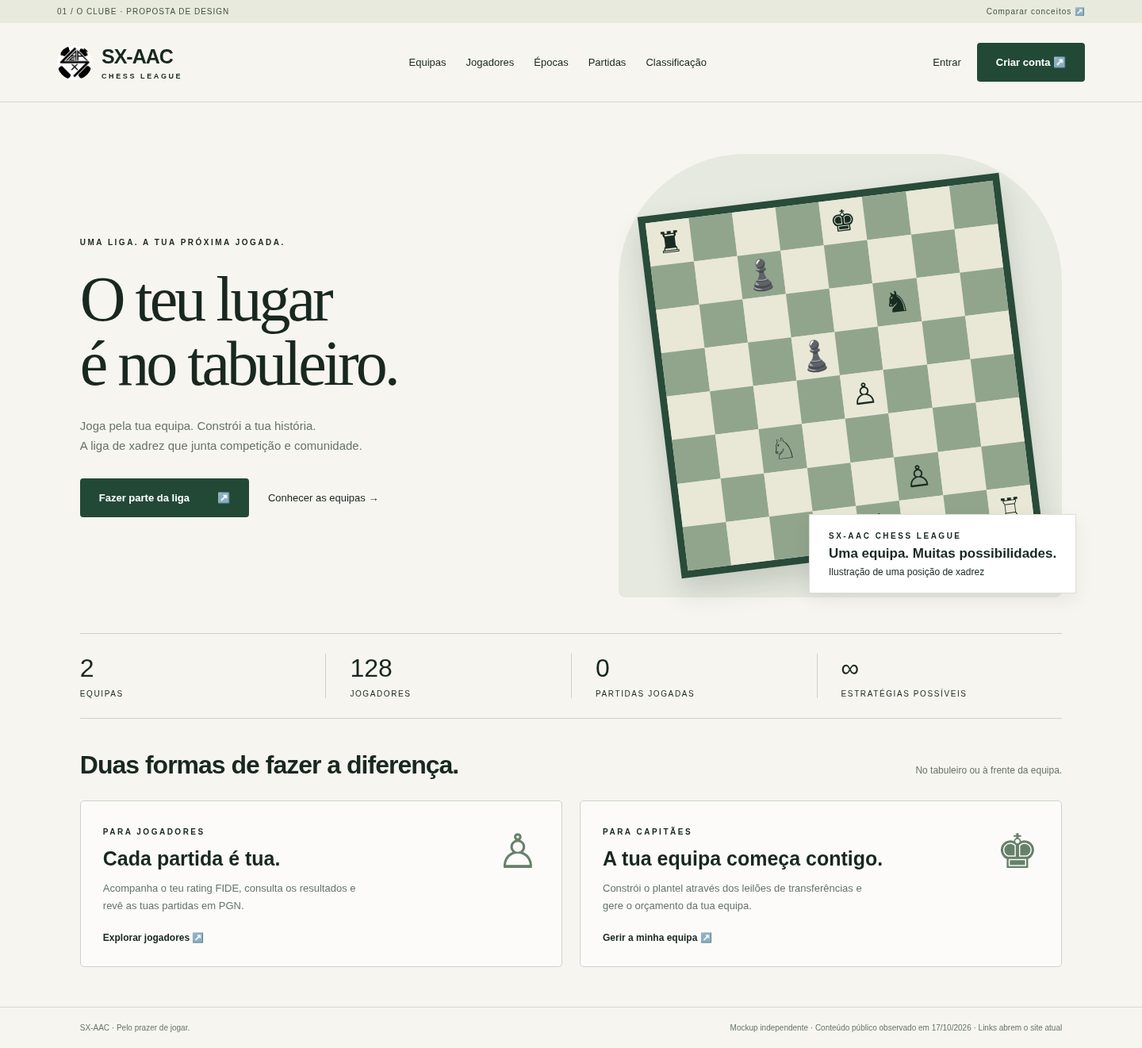
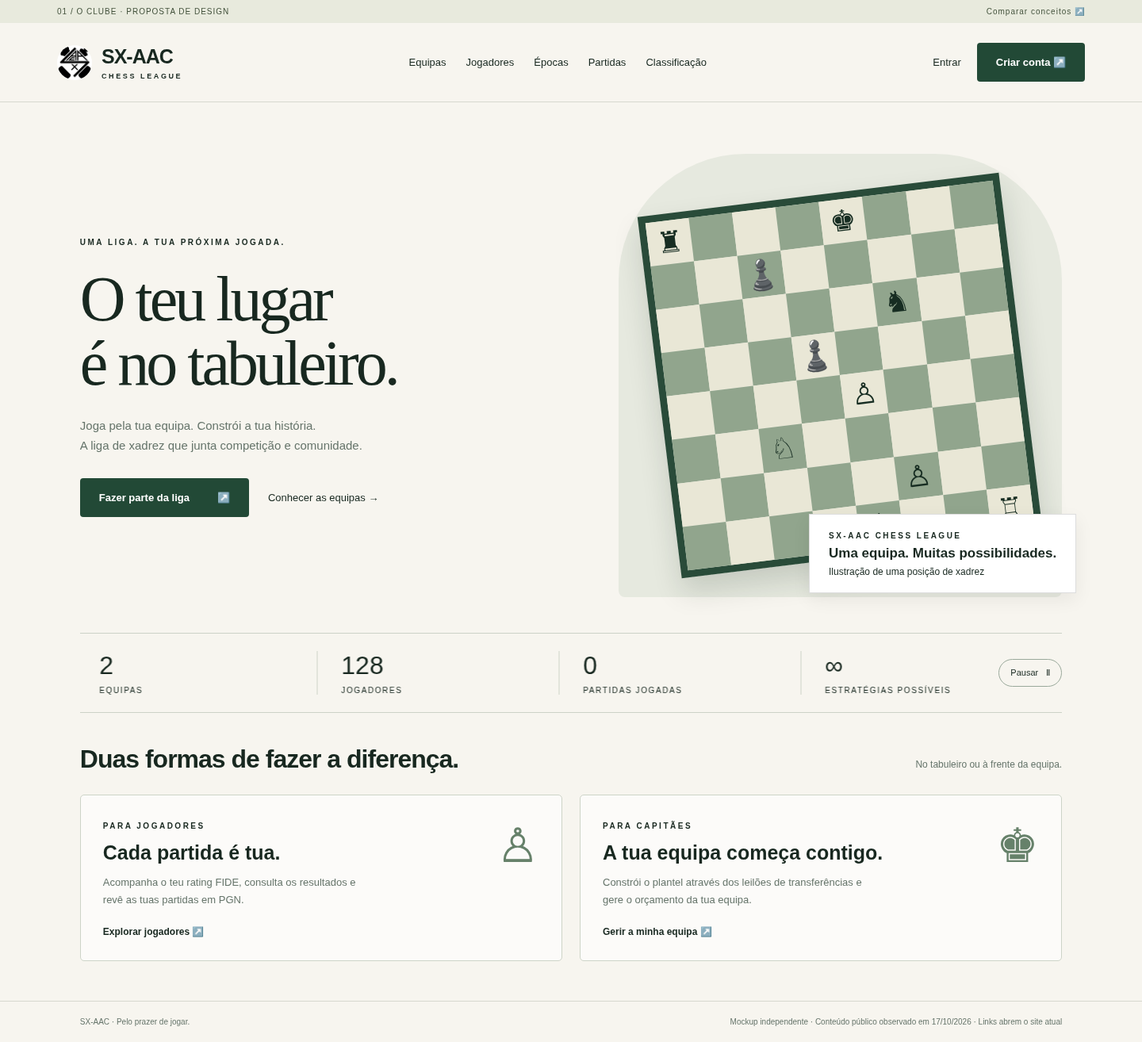
Animate league statistics as a horizontal ticker

diff --git a/concept-02.html b/concept-02.html
@@ -1,1 +1,1 @@
-<!doctype html><html lang="pt-PT"><head><meta charset="utf-8"><meta name="viewport" content="width=device-width,initial-scale=1"><title>Conceito 02 — A Competição · SX-AAC</title><link rel="stylesheet" href="style.css"></head><body class="dark"><div class="preview-label">02 / A COMPETIÇÃO · PROPOSTA DE DESIGN <a style="float:right" href="index.html">Comparar conceitos ↗</a></div><header><a class="brand" href="index.html"><img src="assets/logo.png" alt="SX-AAC"><span>SX-AAC<small>CHESS LEAGUE</small></span></a><nav><a href="https://liga.sx-aac.com/teams">Equipas</a><a href="https://liga.sx-aac.com/players">Jogadores</a><a href="https://liga.sx-aac.com/seasons">Épocas</a><a href="https://liga.sx-aac.com/games">Partidas</a><a href="https://liga.sx-aac.com/standings">Classificação</a></nav><div class="actions"><a href="https://liga.sx-aac.com/login">Entrar</a><a class="btn" href="https://liga.sx-aac.com/register">Criar conta ↗</a></div></header><main><section class="intro"><div><span class="eyebrow muted">SX-AAC / CHESS LEAGUE</span><h1>A próxima jogada é tua.</h1></div><p>Uma liga. Todas as tuas partidas.<br>O ponto de encontro de jogadores e capitães.</p></section><section class="portal"><div class="portal-copy"><div class="tabs" role="tablist" aria-label="Escolher perfil"><button id="player-tab" role="tab" aria-selected="true" aria-controls="role-panel">Sou jogador</button><button id="captain-tab" role="tab" aria-selected="false" aria-controls="role-panel">Sou capitão</button></div><div id="role-panel" role="tabpanel" aria-labelledby="player-tab"><span class="eyebrow muted" id="role-label">O TEU PERCURSO, PARTIDA A PARTIDA</span><h2 id="role-title">Joga. Compete.<br>Deixa a tua marca.</h2><p id="role-desc">Representa a tua equipa e acompanha a tua evolução ao longo da liga.</p><div class="check" id="benefit-one">Resultados e partidas gravadas em PGN</div><div class="check" id="benefit-two">Rating FIDE e histórico de equipas</div><a class="btn" href="https://liga.sx-aac.com/login" id="role-cta">Entrar na minha conta ↗</a></div></div><div class="board-wrap"><div class="board"><span class="sq ">♜</span><span class="sq shade"></span><span class="sq "></span><span class="sq shade"></span><span class="sq ">♚</span><span class="sq shade"></span><span class="sq "></span><span class="sq shade"></span><span class="sq shade"></span><span class="sq "></span><span class="sq shade">♟</span><span class="sq "></span><span class="sq shade"></span><span class="sq "></span><span class="sq shade"></span><span class="sq "></span><span class="sq "></span><span class="sq shade"></span><span class="sq "></span><span class="sq shade"></span><span class="sq "></span><span class="sq shade">♞</span><span class="sq "></span><span class="sq shade"></span><span class="sq shade"></span><span class="sq "></span><span class="sq shade"></span><span class="sq ">♟</span><span class="sq shade"></span><span class="sq "></span><span class="sq shade"></span><span class="sq "></span><span class="sq "></span><span class="sq shade"></span><span class="sq "></span><span class="sq shade"></span><span class="sq ">♙</span><span class="sq shade"></span><span class="sq "></span><span class="sq shade"></span><span class="sq shade"></span><span class="sq "></span><span class="sq shade">♘</span><span class="sq "></span><span class="sq shade"></span><span class="sq "></span><span class="sq shade"></span><span class="sq "></span><span class="sq "></span><span class="sq shade"></span><span class="sq "></span><span class="sq shade"></span><span class="sq "></span><span class="sq shade">♙</span><span class="sq "></span><span class="sq shade"></span><span class="sq shade"></span><span class="sq "></span><span class="sq shade"></span><span class="sq "></span><span class="sq shade">♔</span><span class="sq "></span><span class="sq shade"></span><span class="sq ">♖</span></div></div></section><div class="stats"><div><strong>2</strong><small>EQUIPAS</small></div><div><strong>128</strong><small>JOGADORES</small></div><div><strong>0</strong><small>PARTIDAS JOGADAS</small></div><div><strong>∞</strong><small>ESTRATÉGIAS POSSÍVEIS</small></div></div><div class="section-head"><h2>Explora a liga</h2><span class="eyebrow muted">TUDO NUM SÓ LUGAR</span></div><section class="quick"><a href="https://liga.sx-aac.com/teams"><span class="icon">♜</span><span class="arrow">↗</span><h3>Encontra a tua equipa</h3><p>Conhece os plantéis e quem os lidera.</p></a><a href="https://liga.sx-aac.com/standings"><span class="icon">↗</span><span class="arrow">↗</span><h3>Segue a classificação</h3><p>Acompanha o percurso das equipas.</p></a><a href="https://liga.sx-aac.com/games"><span class="icon">♞</span><span class="arrow">↗</span><h3>Revive cada partida</h3><p>Consulta resultados e explora os PGN.</p></a></section></main><footer><span>SX-AAC · Pelo prazer de jogar.</span><span>Mockup independente · Conteúdo público observado em 17/10/2026 · Links abrem o site atual</span></footer><script>const tabs=[document.getElementById('player-tab'),document.getElementById('captain-tab')];function select(i){tabs.forEach((t,n)=>{t.setAttribute('aria-selected',n===i);t.tabIndex=n===i?0:-1});document.getElementById('role-panel').setAttribute('aria-labelledby',tabs[i].id);document.getElementById('role-label').textContent=i?'A TUA EQUIPA, A TUA ESTRATÉGIA':'O TEU PERCURSO, PARTIDA A PARTIDA';document.getElementById('role-title').innerHTML=i?'Lidera a equipa.<br>Constrói o teu plantel.':'Joga. Compete.<br>Deixa a tua marca.';document.getElementById('role-desc').textContent=i?'Aceita a nomeação como capitão e prepara a tua equipa para competir.':'Representa a tua equipa e acompanha a tua evolução ao longo da liga.';document.getElementById('benefit-one').textContent=i?'Leilões de transferências com orçamento próprio':'Resultados e partidas gravadas em PGN';document.getElementById('benefit-two').textContent=i?'Gestão do plantel e classificação da liga':'Rating FIDE e histórico de equipas';document.getElementById('role-cta').textContent=i?'Gerir a minha equipa ↗':'Entrar na minha conta ↗'}tabs.forEach((t,i)=>{t.onclick=()=>select(i);t.onkeydown=e=>{if(['ArrowLeft','ArrowRight','Home','End'].includes(e.key)){e.preventDefault();let n=e.key==='Home'?0:e.key==='End'?1:1-i;select(n);tabs[n].focus()}}});select(0);</script></body></html>
+<!doctype html><html lang="pt-PT"><head><meta charset="utf-8"><meta name="viewport" content="width=device-width,initial-scale=1"><title>Conceito 02 — A Competição · SX-AAC</title><link rel="stylesheet" href="style.css"></head><body class="dark"><div class="preview-label">02 / A COMPETIÇÃO · PROPOSTA DE DESIGN <a style="float:right" href="index.html">Comparar conceitos ↗</a></div><header><a class="brand" href="index.html"><img src="assets/logo.png" alt="SX-AAC"><span>SX-AAC<small>CHESS LEAGUE</small></span></a><nav><a href="https://liga.sx-aac.com/teams">Equipas</a><a href="https://liga.sx-aac.com/players">Jogadores</a><a href="https://liga.sx-aac.com/seasons">Épocas</a><a href="https://liga.sx-aac.com/games">Partidas</a><a href="https://liga.sx-aac.com/standings">Classificação</a></nav><div class="actions"><a href="https://liga.sx-aac.com/login">Entrar</a><a class="btn" href="https://liga.sx-aac.com/register">Criar conta ↗</a></div></header><main><section class="intro"><div><span class="eyebrow muted">SX-AAC / CHESS LEAGUE</span><h1>A próxima jogada é tua.</h1></div><p>Uma liga. Todas as tuas partidas.<br>O ponto de encontro de jogadores e capitães.</p></section><section class="portal"><div class="portal-copy"><div class="tabs" role="tablist" aria-label="Escolher perfil"><button id="player-tab" role="tab" aria-selected="true" aria-controls="role-panel">Sou jogador</button><button id="captain-tab" role="tab" aria-selected="false" aria-controls="role-panel">Sou capitão</button></div><div id="role-panel" role="tabpanel" aria-labelledby="player-tab"><span class="eyebrow muted" id="role-label">O TEU PERCURSO, PARTIDA A PARTIDA</span><h2 id="role-title">Joga. Compete.<br>Deixa a tua marca.</h2><p id="role-desc">Representa a tua equipa e acompanha a tua evolução ao longo da liga.</p><div class="check" id="benefit-one">Resultados e partidas gravadas em PGN</div><div class="check" id="benefit-two">Rating FIDE e histórico de equipas</div><a class="btn" href="https://liga.sx-aac.com/login" id="role-cta">Entrar na minha conta ↗</a></div></div><div class="board-wrap"><div class="board"><span class="sq ">♜</span><span class="sq shade"></span><span class="sq "></span><span class="sq shade"></span><span class="sq ">♚</span><span class="sq shade"></span><span class="sq "></span><span class="sq shade"></span><span class="sq shade"></span><span class="sq "></span><span class="sq shade">♟</span><span class="sq "></span><span class="sq shade"></span><span class="sq "></span><span class="sq shade"></span><span class="sq "></span><span class="sq "></span><span class="sq shade"></span><span class="sq "></span><span class="sq shade"></span><span class="sq "></span><span class="sq shade">♞</span><span class="sq "></span><span class="sq shade"></span><span class="sq shade"></span><span class="sq "></span><span class="sq shade"></span><span class="sq ">♟</span><span class="sq shade"></span><span class="sq "></span><span class="sq shade"></span><span class="sq "></span><span class="sq "></span><span class="sq shade"></span><span class="sq "></span><span class="sq shade"></span><span class="sq ">♙</span><span class="sq shade"></span><span class="sq "></span><span class="sq shade"></span><span class="sq shade"></span><span class="sq "></span><span class="sq shade">♘</span><span class="sq "></span><span class="sq shade"></span><span class="sq "></span><span class="sq shade"></span><span class="sq "></span><span class="sq "></span><span class="sq shade"></span><span class="sq "></span><span class="sq shade"></span><span class="sq "></span><span class="sq shade">♙</span><span class="sq "></span><span class="sq shade"></span><span class="sq shade"></span><span class="sq "></span><span class="sq shade"></span><span class="sq "></span><span class="sq shade">♔</span><span class="sq "></span><span class="sq shade"></span><span class="sq ">♖</span></div></div></section><section class="metrics" aria-label="A liga em números"><div class="metrics-window"><div class="metrics-track"><dl class="metrics-group"><div class="metric"><dt>EQUIPAS</dt><dd>2</dd></div><div class="metric"><dt>JOGADORES</dt><dd>128</dd></div><div class="metric"><dt>PARTIDAS JOGADAS</dt><dd>0</dd></div><div class="metric"><dt>ESTRATÉGIAS POSSÍVEIS</dt><dd>∞</dd></div></dl><dl class="metrics-group" aria-hidden="true"><div class="metric"><dt>EQUIPAS</dt><dd>2</dd></div><div class="metric"><dt>JOGADORES</dt><dd>128</dd></div><div class="metric"><dt>PARTIDAS JOGADAS</dt><dd>0</dd></div><div class="metric"><dt>ESTRATÉGIAS POSSÍVEIS</dt><dd>∞</dd></div></dl></div></div><button class="metrics-toggle" type="button" aria-pressed="false" aria-label="Pausar movimento das estatísticas">Pausar <span aria-hidden="true">Ⅱ</span></button></section><div class="section-head"><h2>Explora a liga</h2><span class="eyebrow muted">TUDO NUM SÓ LUGAR</span></div><section class="quick"><a href="https://liga.sx-aac.com/teams"><span class="icon">♜</span><span class="arrow">↗</span><h3>Encontra a tua equipa</h3><p>Conhece os plantéis e quem os lidera.</p></a><a href="https://liga.sx-aac.com/standings"><span class="icon">↗</span><span class="arrow">↗</span><h3>Segue a classificação</h3><p>Acompanha o percurso das equipas.</p></a><a href="https://liga.sx-aac.com/games"><span class="icon">♞</span><span class="arrow">↗</span><h3>Revive cada partida</h3><p>Consulta resultados e explora os PGN.</p></a></section></main><footer><span>SX-AAC · Pelo prazer de jogar.</span><span>Mockup independente · Conteúdo público observado em 17/10/2026 · Links abrem o site atual</span></footer><script>const tabs=[document.getElementById('player-tab'),document.getElementById('captain-tab')];function select(i){tabs.forEach((t,n)=>{t.setAttribute('aria-selected',n===i);t.tabIndex=n===i?0:-1});document.getElementById('role-panel').setAttribute('aria-labelledby',tabs[i].id);document.getElementById('role-label').textContent=i?'A TUA EQUIPA, A TUA ESTRATÉGIA':'O TEU PERCURSO, PARTIDA A PARTIDA';document.getElementById('role-title').innerHTML=i?'Lidera a equipa.<br>Constrói o teu plantel.':'Joga. Compete.<br>Deixa a tua marca.';document.getElementById('role-desc').textContent=i?'Aceita a nomeação como capitão e prepara a tua equipa para competir.':'Representa a tua equipa e acompanha a tua evolução ao longo da liga.';document.getElementById('benefit-one').textContent=i?'Leilões de transferências com orçamento próprio':'Resultados e partidas gravadas em PGN';document.getElementById('benefit-two').textContent=i?'Gestão do plantel e classificação da liga':'Rating FIDE e histórico de equipas';document.getElementById('role-cta').textContent=i?'Gerir a minha equipa ↗':'Entrar na minha conta ↗'}tabs.forEach((t,i)=>{t.onclick=()=>select(i);t.onkeydown=e=>{if(['ArrowLeft','ArrowRight','Home','End'].includes(e.key)){e.preventDefault();let n=e.key==='Home'?0:e.key==='End'?1:1-i;select(n);tabs[n].focus()}}});select(0);</script><script src="ticker.js"></script></body></html>

diff --git a/concept-01.html b/concept-01.html
@@ -1,1 +1,1 @@
-<!doctype html><html lang="pt-PT"><head><meta charset="utf-8"><meta name="viewport" content="width=device-width,initial-scale=1"><title>Conceito 01 — O Clube · SX-AAC</title><link rel="stylesheet" href="style.css"></head><body class=""><div class="preview-label">01 / O CLUBE · PROPOSTA DE DESIGN <a style="float:right" href="index.html">Comparar conceitos ↗</a></div><header><a class="brand" href="index.html"><img src="assets/logo.png" alt="SX-AAC"><span>SX-AAC<small>CHESS LEAGUE</small></span></a><nav><a href="https://liga.sx-aac.com/teams">Equipas</a><a href="https://liga.sx-aac.com/players">Jogadores</a><a href="https://liga.sx-aac.com/seasons">Épocas</a><a href="https://liga.sx-aac.com/games">Partidas</a><a href="https://liga.sx-aac.com/standings">Classificação</a></nav><div class="actions"><a href="https://liga.sx-aac.com/login">Entrar</a><a class="btn" href="https://liga.sx-aac.com/register">Criar conta ↗</a></div></header><main><section class="hero"><div><span class="eyebrow">UMA LIGA. A TUA PRÓXIMA JOGADA.</span><h1>O teu lugar<br>é no tabuleiro.</h1><p class="muted">Joga pela tua equipa. Constrói a tua história.<br>A liga de xadrez que junta competição e comunidade.</p><div class="cta"><a class="btn" href="https://liga.sx-aac.com/register">Fazer parte da liga <span>↗</span></a><a href="https://liga.sx-aac.com/teams">Conhecer as equipas →</a></div></div><div class="art"><div class="board"><span class="sq ">♜</span><span class="sq shade"></span><span class="sq "></span><span class="sq shade"></span><span class="sq ">♚</span><span class="sq shade"></span><span class="sq "></span><span class="sq shade"></span><span class="sq shade"></span><span class="sq "></span><span class="sq shade">♟</span><span class="sq "></span><span class="sq shade"></span><span class="sq "></span><span class="sq shade"></span><span class="sq "></span><span class="sq "></span><span class="sq shade"></span><span class="sq "></span><span class="sq shade"></span><span class="sq "></span><span class="sq shade">♞</span><span class="sq "></span><span class="sq shade"></span><span class="sq shade"></span><span class="sq "></span><span class="sq shade"></span><span class="sq ">♟</span><span class="sq shade"></span><span class="sq "></span><span class="sq shade"></span><span class="sq "></span><span class="sq "></span><span class="sq shade"></span><span class="sq "></span><span class="sq shade"></span><span class="sq ">♙</span><span class="sq shade"></span><span class="sq "></span><span class="sq shade"></span><span class="sq shade"></span><span class="sq "></span><span class="sq shade">♘</span><span class="sq "></span><span class="sq shade"></span><span class="sq "></span><span class="sq shade"></span><span class="sq "></span><span class="sq "></span><span class="sq shade"></span><span class="sq "></span><span class="sq shade"></span><span class="sq "></span><span class="sq shade">♙</span><span class="sq "></span><span class="sq shade"></span><span class="sq shade"></span><span class="sq "></span><span class="sq shade"></span><span class="sq "></span><span class="sq shade">♔</span><span class="sq "></span><span class="sq shade"></span><span class="sq ">♖</span></div><div class="art-label"><span class="eyebrow">SX-AAC CHESS LEAGUE</span><strong>Uma equipa. Muitas possibilidades.</strong>Ilustração de uma posição de xadrez</div></div></section><div class="stats"><div><strong>2</strong><small>EQUIPAS</small></div><div><strong>128</strong><small>JOGADORES</small></div><div><strong>0</strong><small>PARTIDAS JOGADAS</small></div><div><strong>∞</strong><small>ESTRATÉGIAS POSSÍVEIS</small></div></div><section class="roles"><div class="section-head"><h2>Duas formas de fazer a diferença.</h2><p>No tabuleiro ou à frente da equipa.</p></div><div class="role-grid"><article class="role"><span class="piece">♙</span><span class="eyebrow">PARA JOGADORES</span><h3>Cada partida é tua.</h3><p class="muted">Acompanha o teu rating FIDE, consulta os resultados e revê as tuas partidas em PGN.</p><a href="https://liga.sx-aac.com/players">Explorar jogadores ↗</a></article><article class="role"><span class="piece">♚</span><span class="eyebrow">PARA CAPITÃES</span><h3>A tua equipa começa contigo.</h3><p class="muted">Constrói o plantel através dos leilões de transferências e gere o orçamento da tua equipa.</p><a href="https://liga.sx-aac.com/login">Gerir a minha equipa ↗</a></article></div></section></main><footer><span>SX-AAC · Pelo prazer de jogar.</span><span>Mockup independente · Conteúdo público observado em 17/10/2026 · Links abrem o site atual</span></footer></body></html>
+<!doctype html><html lang="pt-PT"><head><meta charset="utf-8"><meta name="viewport" content="width=device-width,initial-scale=1"><title>Conceito 01 — O Clube · SX-AAC</title><link rel="stylesheet" href="style.css"></head><body class=""><div class="preview-label">01 / O CLUBE · PROPOSTA DE DESIGN <a style="float:right" href="index.html">Comparar conceitos ↗</a></div><header><a class="brand" href="index.html"><img src="assets/logo.png" alt="SX-AAC"><span>SX-AAC<small>CHESS LEAGUE</small></span></a><nav><a href="https://liga.sx-aac.com/teams">Equipas</a><a href="https://liga.sx-aac.com/players">Jogadores</a><a href="https://liga.sx-aac.com/seasons">Épocas</a><a href="https://liga.sx-aac.com/games">Partidas</a><a href="https://liga.sx-aac.com/standings">Classificação</a></nav><div class="actions"><a href="https://liga.sx-aac.com/login">Entrar</a><a class="btn" href="https://liga.sx-aac.com/register">Criar conta ↗</a></div></header><main><section class="hero"><div><span class="eyebrow">UMA LIGA. A TUA PRÓXIMA JOGADA.</span><h1>O teu lugar<br>é no tabuleiro.</h1><p class="muted">Joga pela tua equipa. Constrói a tua história.<br>A liga de xadrez que junta competição e comunidade.</p><div class="cta"><a class="btn" href="https://liga.sx-aac.com/register">Fazer parte da liga <span>↗</span></a><a href="https://liga.sx-aac.com/teams">Conhecer as equipas →</a></div></div><div class="art"><div class="board"><span class="sq ">♜</span><span class="sq shade"></span><span class="sq "></span><span class="sq shade"></span><span class="sq ">♚</span><span class="sq shade"></span><span class="sq "></span><span class="sq shade"></span><span class="sq shade"></span><span class="sq "></span><span class="sq shade">♟</span><span class="sq "></span><span class="sq shade"></span><span class="sq "></span><span class="sq shade"></span><span class="sq "></span><span class="sq "></span><span class="sq shade"></span><span class="sq "></span><span class="sq shade"></span><span class="sq "></span><span class="sq shade">♞</span><span class="sq "></span><span class="sq shade"></span><span class="sq shade"></span><span class="sq "></span><span class="sq shade"></span><span class="sq ">♟</span><span class="sq shade"></span><span class="sq "></span><span class="sq shade"></span><span class="sq "></span><span class="sq "></span><span class="sq shade"></span><span class="sq "></span><span class="sq shade"></span><span class="sq ">♙</span><span class="sq shade"></span><span class="sq "></span><span class="sq shade"></span><span class="sq shade"></span><span class="sq "></span><span class="sq shade">♘</span><span class="sq "></span><span class="sq shade"></span><span class="sq "></span><span class="sq shade"></span><span class="sq "></span><span class="sq "></span><span class="sq shade"></span><span class="sq "></span><span class="sq shade"></span><span class="sq "></span><span class="sq shade">♙</span><span class="sq "></span><span class="sq shade"></span><span class="sq shade"></span><span class="sq "></span><span class="sq shade"></span><span class="sq "></span><span class="sq shade">♔</span><span class="sq "></span><span class="sq shade"></span><span class="sq ">♖</span></div><div class="art-label"><span class="eyebrow">SX-AAC CHESS LEAGUE</span><strong>Uma equipa. Muitas possibilidades.</strong>Ilustração de uma posição de xadrez</div></div></section><section class="metrics" aria-label="A liga em números"><div class="metrics-window"><div class="metrics-track"><dl class="metrics-group"><div class="metric"><dt>EQUIPAS</dt><dd>2</dd></div><div class="metric"><dt>JOGADORES</dt><dd>128</dd></div><div class="metric"><dt>PARTIDAS JOGADAS</dt><dd>0</dd></div><div class="metric"><dt>ESTRATÉGIAS POSSÍVEIS</dt><dd>∞</dd></div></dl><dl class="metrics-group" aria-hidden="true"><div class="metric"><dt>EQUIPAS</dt><dd>2</dd></div><div class="metric"><dt>JOGADORES</dt><dd>128</dd></div><div class="metric"><dt>PARTIDAS JOGADAS</dt><dd>0</dd></div><div class="metric"><dt>ESTRATÉGIAS POSSÍVEIS</dt><dd>∞</dd></div></dl></div></div><button class="metrics-toggle" type="button" aria-pressed="false" aria-label="Pausar movimento das estatísticas">Pausar <span aria-hidden="true">Ⅱ</span></button></section><section class="roles"><div class="section-head"><h2>Duas formas de fazer a diferença.</h2><p>No tabuleiro ou à frente da equipa.</p></div><div class="role-grid"><article class="role"><span class="piece">♙</span><span class="eyebrow">PARA JOGADORES</span><h3>Cada partida é tua.</h3><p class="muted">Acompanha o teu rating FIDE, consulta os resultados e revê as tuas partidas em PGN.</p><a href="https://liga.sx-aac.com/players">Explorar jogadores ↗</a></article><article class="role"><span class="piece">♚</span><span class="eyebrow">PARA CAPITÃES</span><h3>A tua equipa começa contigo.</h3><p class="muted">Constrói o plantel através dos leilões de transferências e gere o orçamento da tua equipa.</p><a href="https://liga.sx-aac.com/login">Gerir a minha equipa ↗</a></article></div></section></main><footer><span>SX-AAC · Pelo prazer de jogar.</span><span>Mockup independente · Conteúdo público observado em 17/10/2026 · Links abrem o site atual</span></footer><script src="ticker.js"></script></body></html>

diff --git a/style.css b/style.css
@@ -1,1 +1,14 @@
 *{box-sizing:border-box}body{margin:0;font-family:Arial,Helvetica,sans-serif;color:#182820;background:#f7f5ef}a{color:inherit;text-decoration:none}a:hover{text-decoration:underline}a:focus-visible,button:focus-visible{outline:3px solid #b2aa48;outline-offset:5px}button{font:inherit;cursor:pointer}header{display:flex;align-items:center;justify-content:space-between;gap:30px;padding:25px 5%;border-bottom:1px solid #d6d8cf}.brand{display:flex;gap:12px;align-items:center;font-size:25px;font-weight:800;letter-spacing:-1px}.brand img{width:44px;height:44px;object-fit:contain;background:white;border-radius:50%}.brand small{display:block;font-size:9px;letter-spacing:2.6px;margin-top:5px}nav{display:flex;gap:25px;font-size:13px}.actions{display:flex;gap:20px;align-items:center;font-size:13px}.btn{display:inline-flex;align-items:center;justify-content:center;gap:35px;padding:16px 23px;background:#224936;color:#fff;font-size:13px;border:1px solid transparent;border-radius:4px;font-weight:600}.btn.light{background:transparent;color:inherit;border-color:currentColor}.eyebrow{font-size:10px;letter-spacing:2.5px;font-weight:700;text-transform:uppercase}.muted{color:#66756b}h1,h2,h3,p{margin-top:0}h1{font-size:80px;font-weight:500;line-height:1.02;letter-spacing:-4px}h2{font-size:32px;letter-spacing:-1px}p{line-height:1.7}.hero{display:grid;grid-template-columns:1.1fr 1fr;gap:65px;padding:65px 7% 45px;align-items:center}.hero h1{font-family:Georgia,serif;margin:24px 0}.hero p{font-size:15px;max-width:420px}.hero .cta{display:flex;gap:24px;align-items:center;margin-top:28px;font-size:13px}.art{position:relative;padding:28px;background:#e6e9df;border-radius:160px 160px 8px 8px}.board{display:grid;grid-template-columns:repeat(8,1fr);aspect-ratio:1;border:9px solid #294b39;box-shadow:0 18px 35px #14271c28;transform:rotate(-7deg);margin:22px}.sq{display:grid;place-items:center;background:#e9e7d6;font-family:Georgia,serif;font-size:37px;color:#172d22;line-height:1}.sq.shade{background:#91a58d}.art-label{position:absolute;bottom:5px;right:-18px;background:#fff;padding:19px 24px;border:1px solid #ddd;font-size:12px;box-shadow:0 8px 22px #0001}.art-label strong{display:block;margin:6px 0;font-size:17px}.stats{margin:0 7%;display:grid;grid-template-columns:repeat(4,1fr);border-top:1px solid #ccd2c7;border-bottom:1px solid #ccd2c7;padding:25px 0}.stats>div{padding-left:30px;border-left:1px solid #ccd2c7}.stats>div:first-child{padding-left:0;border:0}.stats strong{font-size:32px;font-weight:500;display:block}.stats small{display:block;font-size:10px;letter-spacing:1.6px;margin-top:8px}.roles{padding:40px 7% 50px}.section-head{display:flex;align-items:center;justify-content:space-between;gap:25px}.section-head p{font-size:12px;color:#66756b}.role-grid{display:grid;grid-template-columns:1fr 1fr;gap:22px}.role{padding:28px;border:1px solid #cdd4c8;border-radius:5px;background:#fff9;position:relative}.role h3{font-size:25px;margin:12px 0}.role p{font-size:13px;max-width:340px;margin-bottom:18px}.role .piece{float:right;font-family:Georgia,serif;font-size:60px;color:#66816a}.role a{font-size:12px;font-weight:700}footer{display:flex;justify-content:space-between;gap:20px;padding:20px 7%;font-size:10px;border-top:1px solid #d6d8cf;color:#66756b}.dark{background:#121617;color:#f1f4ee}.dark header{border-color:#333b39}.dark .btn{background:#d5ed88;color:#19231b}.dark .muted{color:#a7b1ad}.dark main{padding:45px 6%}.dark .intro{display:flex;justify-content:space-between;align-items:end;margin-bottom:30px}.dark h1{font-family:Arial,Helvetica,sans-serif;font-weight:700;font-size:64px;margin:15px 0 0}.dark .intro p{max-width:300px;font-size:13px;color:#a7b1ad;margin:0}.dark .portal{display:grid;grid-template-columns:1.15fr .85fr;border:1px solid #38413b;border-radius:12px;overflow:hidden;background:#1c2520}.dark .portal-copy{padding:38px}.tabs{display:flex;gap:8px;margin-bottom:35px}.tabs button{border:1px solid #657166;border-radius:30px;padding:10px 20px;background:transparent;color:#e8eee8;font-size:12px}.tabs button[aria-selected=true]{background:#d5ed88;color:#182820;border-color:#d5ed88}.dark .portal h2{font-size:43px;line-height:1.12;max-width:430px;margin:15px 0}.dark .portal p{color:#bdc7be;max-width:420px;font-size:14px}.check{font-size:12px;color:#c5d1c7;margin:14px 0}.check:before{content:'↗';color:#d5ed88;margin-right:12px}.dark .portal-copy .btn{margin-top:19px}.dark .board-wrap{padding:18px 38px;display:flex;align-items:center;background:#26362a;position:relative}.dark .board{width:100%;margin:15px 0;border-color:#4a6346;transform:rotate(6deg)}.dark .sq{font-size:37px}.dark .sq.shade{background:#738960}.dark .stats{margin:26px 0;border-color:#39413c;padding:20px 0}.dark .stats>div{border-color:#39413c}.dark .stats strong{font-size:28px;color:#d5ed88}.dark .stats small{color:#a7b1ad}.quick{display:grid;grid-template-columns:repeat(3,1fr);gap:18px}.quick a{border:1px solid #364039;border-radius:8px;padding:23px;background:#1b211e}.quick .icon{font-size:25px;color:#d5ed88}.quick h3{font-size:19px;margin:15px 0 8px}.quick p{font-size:12px;color:#a7b1ad;margin:0}.quick .arrow{float:right}.dark footer{border-color:#39413c;color:#a7b1ad}.preview-label{padding:9px 5%;font-size:10px;letter-spacing:1px;background:#e8eadd;color:#44533d}.dark .preview-label{background:#283226;color:#d5ed88}@media(max-width:900px){header{flex-wrap:wrap;gap:18px}nav{order:3;width:100%;justify-content:space-between;gap:10px;flex-wrap:wrap}.hero{gap:25px;padding:40px 6%}.hero h1{font-size:58px}.sq{font-size:25px}.dark .intro{display:block}.dark .intro p{margin-top:20px;max-width:100%}.dark .portal-copy{padding:25px}.dark .portal h2{font-size:35px}.dark .board-wrap{padding:20px}.dark .sq{font-size:28px}}@media(max-width:600px){header{padding:18px 6%}.brand{font-size:21px}.brand img{width:35px;height:35px}.actions{gap:13px}.actions .btn{padding:11px 12px}nav{font-size:11px}.hero{grid-template-columns:1fr;padding-top:35px}.hero h1{font-size:57px}.hero .cta{gap:17px}.art{margin:10px 15px 30px}.sq{font-size:34px}.stats{grid-template-columns:1fr 1fr;gap:24px}.stats>div{padding-left:0;border:0}.stats strong{font-size:28px}.role-grid{grid-template-columns:1fr}.section-head{display:block}.roles h2{font-size:28px}.dark main{padding-top:30px}.dark h1{font-size:48px;letter-spacing:-2px}.dark .portal{grid-template-columns:1fr}.dark .board-wrap{padding:20px 50px}.dark .sq{font-size:32px}.dark .portal h2{font-size:37px}.quick{grid-template-columns:1fr}footer{flex-direction:column;line-height:1.6}}
+/* Seamless statistics ticker. Each identical group occupies half the track. */
+.metrics{margin:0 7%;display:flex;align-items:center;gap:18px;border-block:1px solid #ccd2c7;padding:22px 0;min-width:0}
+.metrics-window{overflow:hidden;flex:1;min-width:0;mask-image:linear-gradient(to right,transparent,#000 16px,#000 calc(100% - 16px),transparent)}
+.metrics-track{display:flex;width:max-content;animation:metrics-scroll 28s linear infinite}
+.metrics-group{display:flex;flex:0 0 auto;width:max(1100px,calc(100vw - 220px));margin:0;padding:0}
+.metric{flex:1;display:flex;flex-direction:column;justify-content:center;gap:7px;padding:0 30px;border-left:1px solid #ccd2c7}
+.metric dt{font-size:10px;letter-spacing:1.6px;white-space:nowrap}.metric dd{order:-1;margin:0;font-size:32px;font-weight:500;font-variant-numeric:tabular-nums}
+.metrics-toggle{flex:none;border:1px solid #9aa99b;background:transparent;color:inherit;border-radius:30px;padding:10px 14px;font-size:11px;display:flex;gap:10px;align-items:center}
+.metrics:hover .metrics-track,.metrics:focus-within .metrics-track,.metrics.is-paused .metrics-track{animation-play-state:paused}
+.dark .metrics{margin:26px 0;border-color:#39413c}.dark .metric{border-color:#39413c}.dark .metric dd{color:#d5ed88}.dark .metric dt{color:#a7b1ad}.dark .metrics-toggle{border-color:#657166}
+@keyframes metrics-scroll{to{transform:translateX(-50%)}}
+@media(max-width:600px){.metrics{gap:8px}.metrics-group{width:800px}.metric{padding:0 22px}.metric dd{font-size:28px}.metrics-toggle{padding:10px}.metrics-window{mask-image:none}}
+@media(prefers-reduced-motion:reduce){.metrics-track{animation:none;width:100%}.metrics-group{width:100%;display:grid;grid-template-columns:repeat(4,minmax(0,1fr));gap:20px}.metrics-group[aria-hidden=true],.metrics-toggle{display:none}.metrics-window{mask-image:none}.metric{padding:0;border:0}.metric dt{white-space:normal}.metrics{display:block}@media(max-width:600px){.metrics-group{grid-template-columns:1fr 1fr}}}

diff --git a/ticker.js b/ticker.js
@@ -1,0 +1,9 @@
+document.querySelectorAll('.metrics').forEach(ticker => {
+  const button = ticker.querySelector('.metrics-toggle');
+  button.addEventListener('click', () => {
+    const paused = ticker.classList.toggle('is-paused');
+    button.setAttribute('aria-pressed', String(paused));
+    button.setAttribute('aria-label', paused ? 'Retomar movimento das estatísticas' : 'Pausar movimento das estatísticas');
+    button.innerHTML = paused ? 'Retomar <span aria-hidden="true">▶</span>' : 'Pausar <span aria-hidden="true">Ⅱ</span>';
+  });
+});

diff --git a/README.md b/README.md
@@ -15,3 +15,5 @@ Charcoal and lime, interactive player/captain tabs, direct access to league feat
 Open `index.html` for the gallery. No build or dependencies required. All assets are local. Account and competition links lead to the original website. Figures are a snapshot, not live data; chess positions are illustrative. The SX-AAC logo is sourced from the original site for these redesign proposals; no endorsement is implied.
 
 Mobile previews: [Concept 01](assets/concept-01-mobile.png) · [Concept 02](assets/concept-02-mobile.png).
+
+The statistics scroll horizontally in a seamless loop in both concepts. Hover or keyboard focus pauses the motion; the pause button keeps it paused. Reduced-motion preferences display a static grid. Counts remain the original snapshot.
